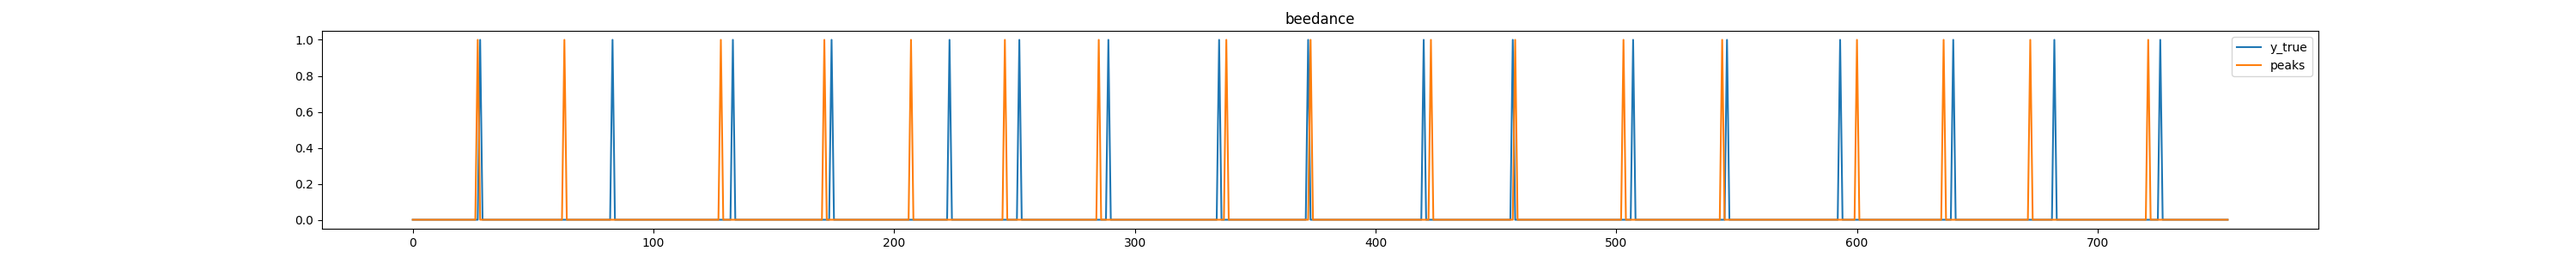
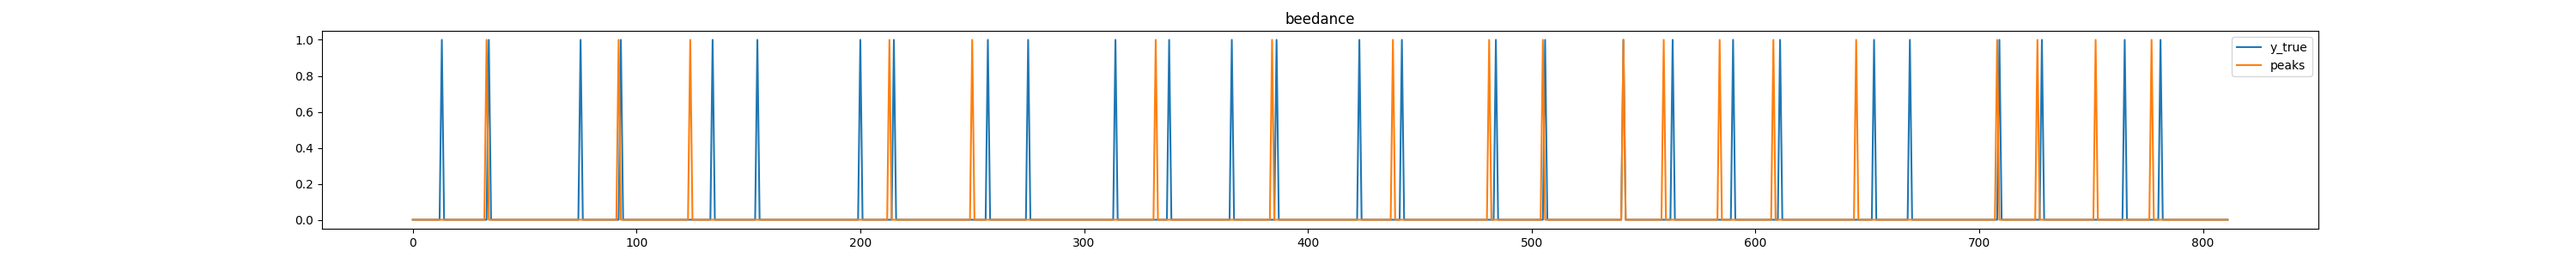
updating ensemble method

diff --git a/TiVaCPD/experiments.py b/TiVaCPD/experiments.py
@@ -138,6 +138,10 @@ def main():
     f1_scores_mmdagg= []
     precision_scores_mmdagg = []
     recall_scores_mmdagg = []
+    final_auc_scores_combined =  []
+    final_f1_scores_combined = []
+    final_precision_scores_combined = []
+    final_recall_scores_combined = []
 
     auc_scores = []
     f1_scores = []
@@ -196,25 +200,64 @@ def main():
             mmd_score_nor = stats.zscore(mmd_score)
             #mmd_score_nor = (mmd_score_nor - np.min(mmd_score_nor)) / (np.max(mmd_score_nor) - np.min(mmd_score_nor))
             corr_score_nor = stats.zscore(corr_score)
-            #corr_score_nor = (corr_score_nor - np.min(corr_score_nor)) / (np.max(corr_score_nor) - np.min(corr_score_nor))
             
-            q3, q1 = np.percentile(mmd_score_nor, [75 ,25])
-            mmd_iqr = q3 - q1
-            mmd_vote = (mmd_score_nor < (1.5 * mmd_iqr))
             q3, q1 = np.percentile(corr_score_nor, [75 ,25])
             corr_iqr = q3 - q1
             corr_vote = (corr_score_nor < (1.5 * corr_iqr))
+            corr_score_nor = corr_score_nor * corr_vote.astype(int)
 
-            W = np.dot(corr_score_nor, mmd_score_nor) / (len(corr_score_nor) - 1)
-            W2 = np.cov(corr_score_nor, mmd_score_nor)[1]
-            D = np.mean(abs(corr_score_nor - mmd_score_nor))
-            print('weights: ', W, W2, D)
+            all_scores = [mmd_score_nor, corr_score_nor, corr_score_savgol, combined_score_savgol]
+            print('all score shape: ', np.array(all_scores).shape)
+
+            if(args.wavelet):
+                mmd_score_wave_nor = stats.zscore(mmd_score_wave)
+                corr_score_wave_nor = stats.zscore(corr_score_wave)
+                q3, q1 = np.percentile(corr_score_wave_nor, [75 ,25])
+                corr_vote = (corr_score_wave_nor < (1.5 * (q3 - q1)))
+                corr_score_wave_nor = corr_score_wave_nor * corr_vote.astype(int)
+                all_scores = all_scores.append(mmd_score_wave_nor)
+                all_scores = all_scores.append(corr_score_wave_nor)
+            
+            w_corr = True
+            all_scores = np.transpose(np.array(all_scores))
+            print('all score shape: ', all_scores.shape)
+
+            if(args.ensemble_win):
+                final_score = windowed_ensemble(all_scores, window_size=7, w_corr=w_corr)
+            else:
+                if(w_corr):
+                    W = np.cov(all_scores.T)
+                    W = np.sum(W , axis = 0)
+                    print('weight W: ', W)
+                    final_score1 = np.dot(all_scores, W) / sum(W)
+                #else:
+                    score_num = all_scores.shape[1]
+                    D = np.zeros((score_num,score_num))
+                    for i in range(score_num):
+                        for j in range(i+1, score_num):
+                            D[i,j] =  np.mean(abs(all_scores[:,i] - all_scores[:,j]))
+                            D[j,i] = D[i,j]
+                    W = np.sum(D, axis = 0) 
+                    print('weight D: ', W)
+                final_score = np.dot(all_scores, W) / sum(W)
+            
+            y_pred = final_score1
+            metrics= ComputeMetrics(y_true, y_pred, args.margin)
+            print("W Weighted ensemble score:", "AUC:", np.round(metrics.auc,2), "F1:",np.round(metrics.f1,2), "Precision:", np.round(metrics.precision,2), "Recall:",np.round(metrics.recall,2))
+            
+            y_pred = final_score
+            metrics= ComputeMetrics(y_true, y_pred, args.margin)
+            print("D Weighted ensemble score:", "AUC:", np.round(metrics.auc,2), "F1:",np.round(metrics.f1,2), "Precision:", np.round(metrics.precision,2), "Recall:",np.round(metrics.recall,2))
+            final_auc_scores_combined.append(np.round(metrics.auc,3))
+            final_f1_scores_combined.append(np.round(metrics.f1,3))
+            final_precision_scores_combined.append(np.round(metrics.precision,3))
+            final_recall_scores_combined.append(np.round(metrics.recall,3))
 
             y_pred = mmd_score_nor
             mmd_score_nor = y_pred
             metrics = ComputeMetrics(y_true, y_pred, args.margin)
             print("Norm DistScore:", "AUC:",np.round(metrics.auc,2), "F1:",np.round(metrics.f1,2), "Precision:", np.round(metrics.precision,2), "Recall:",np.round(metrics.recall,2))
-            y_pred = corr_score_nor * corr_vote.astype(int)
+            y_pred = corr_score_nor
             corr_score_nor = y_pred
             metrics = ComputeMetrics(y_true, y_pred, args.margin)
             print("Norm CorrScore:", "AUC:",np.round(metrics.auc,2), "F1:",np.round(metrics.f1,2), "Precision:", np.round(metrics.precision,2), "Recall:",np.round(metrics.recall,2))
@@ -527,6 +570,12 @@ def main():
         print("f1_scores_mmdagg_CI", mean_confidence_interval(f1_scores_mmdagg))
         print("precision_scores_mmdagg_CI", mean_confidence_interval(precision_scores_mmdagg))
         print("recall_scores_mmdagg_CI", mean_confidence_interval(recall_scores_mmdagg))
+
+        print("auc_scores", mean_confidence_interval(final_auc_scores_combined))
+        print("f1_scores", mean_confidence_interval(final_f1_scores_combined))
+        print("precision_scores", mean_confidence_interval(final_precision_scores_combined))
+        print("recall_scores", mean_confidence_interval(final_recall_scores_combined))
+        
     else:
         print(args.data_type, args.model_type, args.exp)
         print("auc_CI", mean_confidence_interval(auc_scores))
@@ -553,6 +602,7 @@ if __name__=='__main__':
     parser.add_argument('--slice_size', default = 7)
     parser.add_argument('--wavelet', default = False, type= bool)
     parser.add_argument('--penalty_type', default = 'L1', help='The TVGL penalty type; corrently accepts L1, L2, and perturbed')
+    parser.add_argument('--ensemble_win', default = False, help='Whether to find ensemble weights for windowed scores')
 
     args = parser.parse_args()
 

diff --git a/TiVaCPD/performance.py b/TiVaCPD/performance.py
@@ -214,3 +214,24 @@ def shift(arr, shift):
     if shift > 0: m_arr[:shift] = ma.masked
     else: m_arr[shift:] = ma.masked
     return m_arr.filled(0)
+
+def windowed_ensemble(all_scores, window_size=7, w_corr=True):
+    final_score = []
+    for i in range(np.ceil(len(all_scores)/window_size)):
+        upper_index = min((i+1)*window_size, len(all_scores))
+        scores = all_scores[i:upper_index]
+        if(w_corr):
+            W = np.cov(scores.T)
+            W = np.sum(W , axis = 0)
+        else:
+            score_num = scores.shape[1]
+            D = np.zeros((score_num,score_num))
+            for i in range(score_num):
+                for j in range(i+1, score_num):
+                    D[i,j] =  np.mean(abs(all_scores[:,i] - all_scores[:,j]))
+                    D[j,i] = D[i,j]
+                    #D[i,j] =  np.mean(abs(all_scores[i] - np.mean(all_scores[j])))
+            W = np.sum(D, axis = 0)
+        scores = np.dot(scores, W) / sum(W)
+        final_score.append(scores)
+    return np.array(final_score)
